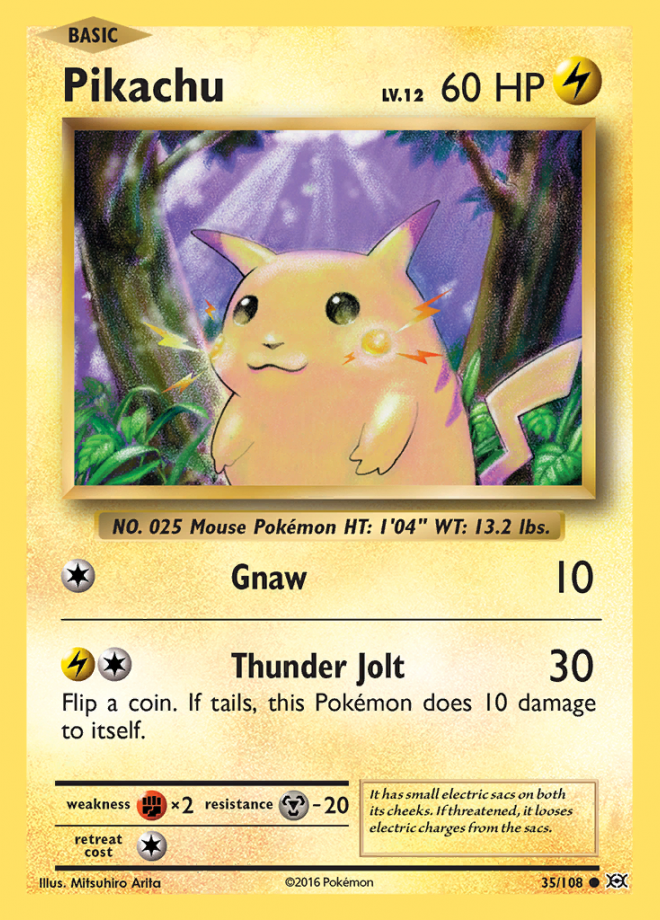
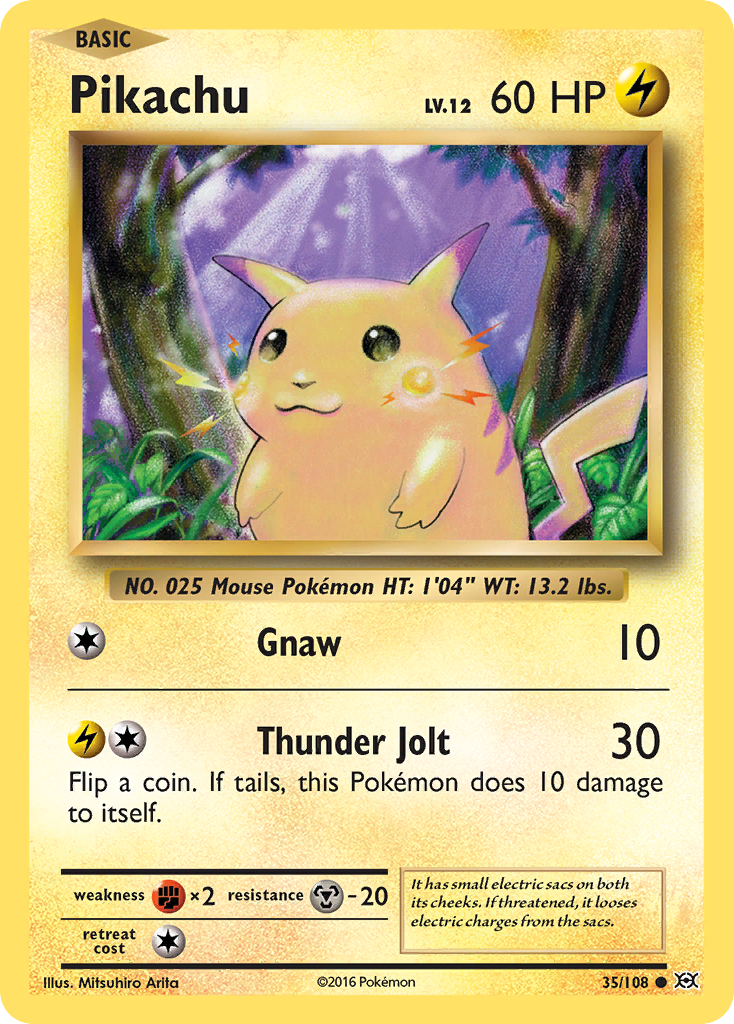
Sharpen cards with full-resolution scans and accurate image sizes
Nine of the twelve card fronts were 360px-wide copies, so on high-density
screens the binder, slab, and inspector stretched them up to 3x and they
looked blurry next to the sharper Evolutions scans. All twelve fronts are
now the Pokemon TCG API's high-resolution scans (600x825 for vintage cards,
733-734x1024 for modern ones). Each replaced file was compared pixel by
pixel with the old copy, including 1st Edition stamps, to confirm it is
the same printing. Files are stored as downloaded, with source URLs and
SHA-256 checksums in sources.json; the unused mgz-pkmn license goes with
its files.

Every card placement now declares the width it is drawn at, so the
browser fetches a thumbnail at least that sharp for the screen's density
(the favourite picks were declared at 120px but drawn up to 190px), and
card scans are encoded at quality 85 instead of 75 to keep fine print and
foil texture. A test now fails if a front drops below 600px wide.

Claude-Session: https://claude.ai/code/session_01TZhsuWen34SnzuKcdyJC8d

diff --git a/src/data/cards.ts b/src/data/cards.ts
@@ -59,8 +59,8 @@ export const EXAMPLE_CARDS: ExampleCard[] = [
     "releaseDate": "1999-01-09",
     "number": "4",
     "artist": "Mitsuhiro Arita",
-    "image": "/cards/base1-4.webp",
-    "imageLarge": "/cards/base1-4.webp",
+    "image": "/cards/base1-4.png",
+    "imageLarge": "/cards/base1-4.png",
     "chase": true,
     "note": "The Base Set Charizard. Mitsuhiro Arita’s illustration and the original 120 HP are part of the card’s identity."
   },
@@ -81,8 +81,8 @@ export const EXAMPLE_CARDS: ExampleCard[] = [
     "releaseDate": "1999-01-09",
     "number": "2",
     "artist": "Ken Sugimori",
-    "image": "/cards/base1-2.webp",
-    "imageLarge": "/cards/base1-2.webp",
+    "image": "/cards/base1-2.png",
+    "imageLarge": "/cards/base1-2.png",
     "chase": false,
     "note": "Base Set Blastoise: Ken Sugimori’s artwork, Rain Dance, and Hydro Pump."
   },
@@ -103,8 +103,8 @@ export const EXAMPLE_CARDS: ExampleCard[] = [
     "releaseDate": "2003-05-12",
     "number": "H30",
     "artist": "Atsuko Nishida",
-    "image": "/cards/ecard3-H30.webp",
-    "imageLarge": "/cards/ecard3-H30.webp",
+    "image": "/cards/ecard3-H30.png",
+    "imageLarge": "/cards/ecard3-H30.png",
     "chase": false,
     "note": "Umbreon from Skyridge, illustrated by Atsuko Nishida. Its printed card number is H30."
   },
@@ -125,8 +125,8 @@ export const EXAMPLE_CARDS: ExampleCard[] = [
     "releaseDate": "2003-05-12",
     "number": "H31",
     "artist": "Naoyo Kimura",
-    "image": "/cards/ecard3-H31.webp",
-    "imageLarge": "/cards/ecard3-H31.webp",
+    "image": "/cards/ecard3-H31.png",
+    "imageLarge": "/cards/ecard3-H31.png",
     "chase": false,
     "note": "Vaporeon from Skyridge, illustrated by Naoyo Kimura. The e-Reader border is part of the original scan."
   },
@@ -148,8 +148,8 @@ export const EXAMPLE_CARDS: ExampleCard[] = [
     "releaseDate": "2006-11-01",
     "number": "100",
     "artist": "Masakazu Fukuda",
-    "image": "/cards/ex15-100.webp",
-    "imageLarge": "/cards/ex15-100.webp",
+    "image": "/cards/ex15-100.png",
+    "imageLarge": "/cards/ex15-100.png",
     "chase": true,
     "note": "Charizard ★ δ from Dragon Frontiers. The Gold Star, Darkness type, and Masakazu Fukuda artwork are all on the original card."
   },
@@ -170,8 +170,8 @@ export const EXAMPLE_CARDS: ExampleCard[] = [
     "releaseDate": "2000-10-16",
     "number": "2",
     "artist": "Ken Sugimori",
-    "image": "/cards/gym2-2.webp",
-    "imageLarge": "/cards/gym2-2.webp",
+    "image": "/cards/gym2-2.png",
+    "imageLarge": "/cards/gym2-2.png",
     "chase": false,
     "note": "Blaine’s Charizard from Gym Challenge, illustrated by Ken Sugimori. A different Charizard, a different set."
   },
@@ -193,8 +193,8 @@ export const EXAMPLE_CARDS: ExampleCard[] = [
     "releaseDate": "2007-03-01",
     "number": "16",
     "artist": "Masakazu Fukuda",
-    "image": "/cards/pop5-16.webp",
-    "imageLarge": "/cards/pop5-16.webp",
+    "image": "/cards/pop5-16.png",
+    "imageLarge": "/cards/pop5-16.png",
     "chase": true,
     "note": "Espeon ★ from POP Series 5, illustrated by Masakazu Fukuda. This Gold Star card is printed as a non-holo rare."
   },
@@ -215,8 +215,8 @@ export const EXAMPLE_CARDS: ExampleCard[] = [
     "releaseDate": "2009-12-02",
     "number": "7",
     "artist": "Pokemon Rumble",
-    "image": "/cards/ru1-7.webp",
-    "imageLarge": "/cards/ru1-7.webp",
+    "image": "/cards/ru1-7.png",
+    "imageLarge": "/cards/ru1-7.png",
     "chase": false,
     "note": "Pikachu from Pokémon Rumble. The artwork and the 7/16 card number come from that promotional collection."
   },
@@ -237,8 +237,8 @@ export const EXAMPLE_CARDS: ExampleCard[] = [
     "releaseDate": "2001-07-31",
     "number": "13",
     "artist": "Naoyo Kimura",
-    "image": "/cards/si1-13.webp",
-    "imageLarge": "/cards/si1-13.webp",
+    "image": "/cards/si1-13.png",
+    "imageLarge": "/cards/si1-13.png",
     "chase": false,
     "note": "Exeggutor from Southern Islands. Naoyo Kimura’s tropical illustration is printed across this original card."
   },
@@ -259,8 +259,8 @@ export const EXAMPLE_CARDS: ExampleCard[] = [
     "releaseDate": "2024-11-08",
     "number": "1",
     "artist": "Tetsu Kayama",
-    "image": "/cards/sv8-1.webp",
-    "imageLarge": "/cards/sv8-1.webp",
+    "image": "/cards/sv8-1.png",
+    "imageLarge": "/cards/sv8-1.png",
     "chase": false,
     "note": "Exeggcute from Surging Sparks, illustrated by Tetsu Kayama. A modern common alongside the classic cards."
   },

diff --git a/src/components/drops.tsx b/src/components/drops.tsx
@@ -64,7 +64,7 @@ function SnapStories({ onSelect }: { onSelect: (card: ExampleCard) => void }) {
             )}
           >
             <StoryCopy story={story} />
-            <HoloCard card={card} onSelect={() => onSelect(card)} showMeta={false} className="mx-auto max-w-[200px]" />
+            <HoloCard card={card} onSelect={() => onSelect(card)} showMeta={false} sizes="200px" className="mx-auto max-w-[200px]" />
           </article>
         );
       })}
@@ -93,7 +93,7 @@ function ScrubStories({ onSelect }: { onSelect: (card: ExampleCard) => void }) {
               >
                 <div className="mx-auto grid w-full max-w-6xl items-center gap-8 px-8 md:grid-cols-[1.1fr_200px] lg:px-12">
                   <StoryCopy story={story} />
-                  <HoloCard card={card} onSelect={() => onSelect(card)} showMeta={false} className="mx-auto w-full max-w-[240px]" />
+                  <HoloCard card={card} onSelect={() => onSelect(card)} showMeta={false} sizes="240px" className="mx-auto w-full max-w-[240px]" />
                 </div>
               </article>
             );

diff --git a/src/components/favourite.tsx b/src/components/favourite.tsx
@@ -61,7 +61,7 @@ export function Favourite() {
           <div className="relative mx-auto w-full max-w-[280px]">
             {selected ? (
               <>
-                <HoloCard card={selected} showMeta={false} onSelect={() => setInspected(selected)} />
+                <HoloCard card={selected} showMeta={false} sizes="280px" onSelect={() => setInspected(selected)} />
                 <p className="stamp gold-plate pointer-events-none absolute top-8 right-0 rounded-md px-3 py-2 font-display text-xl">
                   Locked in
                 </p>
@@ -108,7 +108,7 @@ export function Favourite() {
                       )}
                     >
                       <CardSurface className="h-full w-full" focused={focusedPick === card.id}>
-                        <CardFace card={card} sizes="120px" />
+                        <CardFace card={card} sizes="(min-width: 768px) 190px, (min-width: 400px) 23vw, 46vw" />
                       </CardSurface>
                     </span>
                     <span className="mt-1 block truncate text-[11px] font-semibold">

diff --git a/src/components/card-face.tsx b/src/components/card-face.tsx
@@ -5,10 +5,13 @@ import { useState } from "react";
 
 import type { ExampleCard } from "@/data/cards";
 
+/** Card scans keep their fine print and foil texture at this quality (see next.config.ts). */
+const SCAN_QUALITY = 85;
+
 export function CardBack() {
   return (
     <div className="absolute inset-0 overflow-hidden rounded-[8px] bg-[#18376e]" data-card-back>
-      <Image src="/cards/back.jpg" alt="" fill sizes="(max-width: 768px) 90vw, 560px" className="object-contain" />
+      <Image src="/cards/back.jpg" alt="" fill sizes="(max-width: 768px) 90vw, 560px" quality={SCAN_QUALITY} className="object-contain" />
     </div>
   );
 }
@@ -40,6 +43,7 @@ export function CardFace({
           alt=""
           fill
           sizes={sizes}
+          quality={SCAN_QUALITY}
           priority={priority}
           // The inspector uses the original scan; thumbnails are optimized locally.
           unoptimized={large}

diff --git a/src/components/holo-card.tsx b/src/components/holo-card.tsx
@@ -16,6 +16,8 @@ type HoloCardProps = {
   fill?: boolean;
   /** Maximum 3D rotation in degrees; 0 keeps the card still but shiny. */
   tilt?: number;
+  /** How wide the card is drawn, so the browser fetches a scan at least that sharp. */
+  sizes?: string;
   className?: string;
 };
 
@@ -27,6 +29,7 @@ export function HoloCard({
   showMeta = true,
   fill = false,
   tilt,
+  sizes = "(max-width: 768px) 46vw, 240px",
   className,
 }: HoloCardProps) {
   const [focused, setFocused] = useState(false);
@@ -43,7 +46,7 @@ export function HoloCard({
         card={card}
         large={large}
         priority={priority}
-        sizes={large ? "(max-width: 768px) 80vw, 360px" : "(max-width: 768px) 46vw, 220px"}
+        sizes={large ? "(max-width: 768px) 80vw, 360px" : sizes}
       />
     </CardSurface>
   );

diff --git a/src/components/live-floor.tsx b/src/components/live-floor.tsx
@@ -13,7 +13,7 @@ function Ticket({ card, priority = false, onSelect }: { card: ExampleCard; prior
   return (
     <article className="mb-2 flex gap-3 rounded-[8px] border border-line bg-white p-2.5 text-ink">
       <div className="relative aspect-[63/88] w-14 shrink-0 rounded-md bg-white">
-        <HoloCard card={card} priority={priority} fill showMeta={false} className="h-full" onSelect={onSelect} />
+        <HoloCard card={card} priority={priority} fill showMeta={false} sizes="64px" className="h-full" onSelect={onSelect} />
       </div>
       <div className="min-w-0 py-0.5">
         <h3 className="truncate font-display text-lg leading-tight">{card.name}</h3>

diff --git a/src/components/card-fan.tsx b/src/components/card-fan.tsx
@@ -37,7 +37,7 @@ export function CardFan() {
           >
             <CardSurface className="fan-card aspect-[63/88] w-full">
               <button type="button" onClick={() => setActive(card)} aria-label={`Inspect ${card.name} from ${card.setName}`} aria-haspopup="dialog" className="absolute inset-0 block w-full rounded-lg focus-visible:outline-3 focus-visible:outline-offset-[-3px] focus-visible:outline-sun">
-                <CardFace card={card} priority={index === 2} sizes="160px" />
+                <CardFace card={card} priority={index === 2} sizes="(min-width: 640px) 150px, 132px" />
               </button>
             </CardSurface>
           </div>

diff --git a/src/components/pack-rip.tsx b/src/components/pack-rip.tsx
@@ -54,7 +54,7 @@ function PackCard({
         style={!reduce && !hot ? { animationDelay: `${index * 180}ms` } : undefined}
       >
         <div className="pack-face" inert={!hot && !reduce ? true : undefined}>
-          <HoloCard card={card} fill showMeta={false} onSelect={onSelect} className="h-full" />
+          <HoloCard card={card} fill showMeta={false} onSelect={onSelect} sizes="(min-width: 640px) 176px, 142px" className="h-full" />
         </div>
         {reduce || hot ? null : (
           <div className="pack-face pack-back" aria-hidden>

diff --git a/src/components/gallery.tsx b/src/components/gallery.tsx
@@ -118,7 +118,7 @@ export function Gallery() {
           <ul className="mt-6 grid grid-cols-2 gap-x-4 gap-y-8 sm:grid-cols-3 lg:grid-cols-4 xl:grid-cols-5">
             {shown.map((card) => (
               <li key={card.id}>
-                <HoloCard card={card} onSelect={() => setActive(card)} />
+                <HoloCard card={card} onSelect={() => setActive(card)} sizes="(min-width: 1280px) 210px, (min-width: 1024px) 26vw, (min-width: 640px) 32vw, 46vw" />
               </li>
             ))}
           </ul>

diff --git a/next.config.ts b/next.config.ts
@@ -12,8 +12,9 @@ const nextConfig: NextConfig = {
     },
   },
   images: {
-    // Next.js 16 requires an explicit quality allowlist.
-    qualities: [75],
+    // Next.js 16 requires an explicit quality allowlist. Card scans use 85 so fine
+    // print and foil texture survive; other images use the default 75.
+    qualities: [75, 85],
     remotePatterns: [
       new URL("https://images.scrydex.com/pokemon/**"),
       new URL("https://images.pokemontcg.io/**"),

diff --git a/README.md b/README.md
@@ -37,10 +37,12 @@ Optional: set `NEXT_PUBLIC_SITE_URL` to the production origin (for example `http
 ## Card collection
 
 Twelve genuine Pokémon TCG fronts and a printed card-back scan are bundled in
-`public/cards`. Names, HP, set numbers, rarities, and illustrators are matched to
-the public Pokémon TCG dataset; the Exeggcute illustrator was read from the scan
-where the dataset omitted it. Source commits, URLs, and checksums are recorded in
-`public/cards/sources.json`. No runtime connection to an image CDN is required.
+`public/cards`. The fronts are the Pokémon TCG API's high-resolution scans (600×825
+for vintage cards, 733–734×1024 for modern ones), so cards stay sharp at binder
+size on high-density screens. Names, HP, set numbers, rarities, and illustrators
+are matched to the public Pokémon TCG dataset; the Exeggcute illustrator was read
+from the scan where the dataset omitted it. Source URLs and checksums are recorded
+in `public/cards/sources.json`. No runtime connection to an image CDN is required.
 
 Cards react to the pointer in 3D. Each card turns to face the cursor, up to 18°
 toward any edge, leans after it, and lifts off the page with a small pop. Its
@@ -103,7 +105,9 @@ the finishes but drops the springs and sheens. Bundled Lato and Roboto set the t
 
 Web fonts are bundled in `src/fonts` with their licenses and provenance. Builds
 do not download Google Fonts or card artwork. Card scans are served locally, with
-optimized thumbnails and original files in the inspector.
+original files in the inspector. Every other card declares the width it is drawn
+at, so the browser fetches a thumbnail at least that sharp for the screen's pixel
+density, encoded at quality 85 to keep fine print and foil texture.
 
 ## Share previews
 

diff --git a/public/cards/README.md b/public/cards/README.md
@@ -1,15 +1,14 @@
 # Reference card artwork
 
 These are authentic printed Pokémon TCG card scans, not generated or redrawn
-card designs. Files were copied without image changes from the source commits
-in `sources.json`; that manifest records SHA-256 checksums for every scan.
+card designs. Files are stored exactly as downloaded; `sources.json` records each
+file's source URL and SHA-256 checksum.
 
-- Ten WebP fronts: `mgzwarrior/mgz-pkmn` at
-  `31754a6d95dfeee8307c2984667539c34427b768`, `site/public/cards/`.
-  Its repository MIT license is retained as `mgz-pkmn-LICENSE.txt`.
-- Evolutions Pikachu and Brock's Grit: `NolanAmblard/Pokemon-Card-Scanner` at
-  `e16aa5a0c96331a4fbc8a12179fee7b2ac39cedc`,
-  `evolutionsCardsImages/035.png` and `074.png`.
+- Twelve card fronts: the high-resolution scans the Pokémon TCG API serves at
+  `images.pokemontcg.io/{set}/{number}_hires.png`, retrieved 2026-11-06. Vintage
+  scans are 600×825 and modern scans 733–734×1024, the largest the API publishes.
+  They replaced smaller, recompressed copies of the same scans; each pair was
+  compared pixel by pixel (including 1st Edition stamps) before the swap.
 - Printed card-back scan: `Arc29/Card-flipping-game` at
   `09a82c1156fe06ba99b889bac93482bd54f9ca83`,
   `src/resources/images/s-l1600.jpg`.
